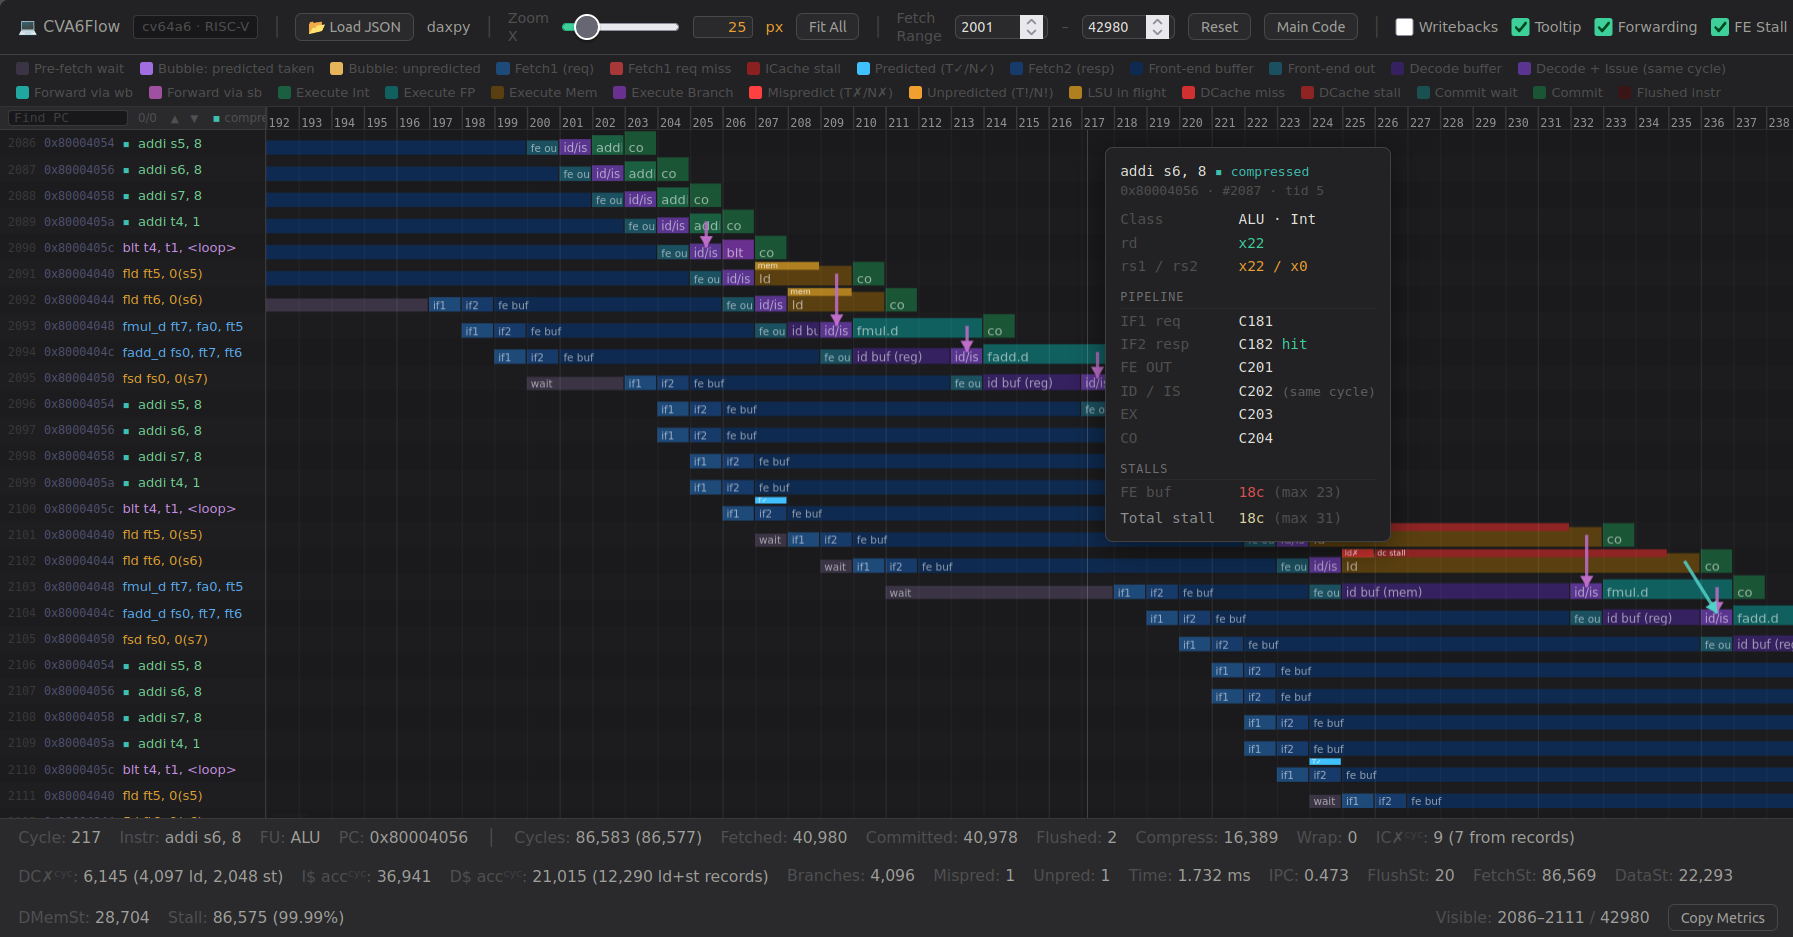
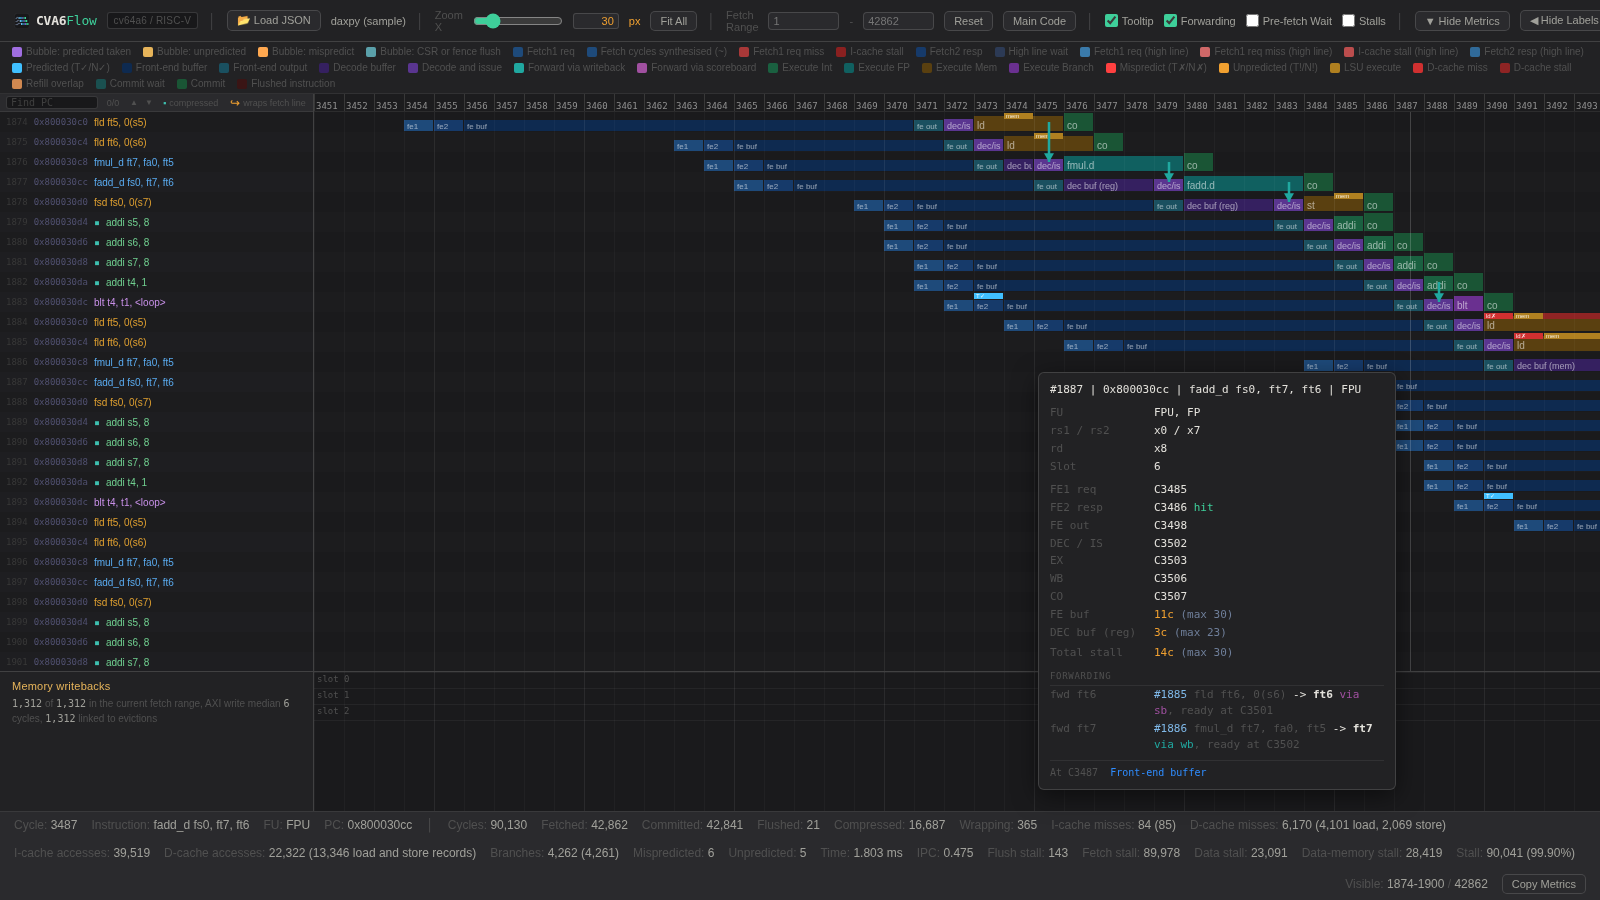
Open with a GIF tour and retake the screenshot with the new mark

Changed region(s): [[0.0, 0.0, 1.0, 0.9956]]

diff --git a/README.md b/README.md
@@ -2,7 +2,7 @@
 
 A browser-based pipeline visualiser for the CORE-V CVA6 RISC-V core. It rebuilds the pipeline cycle by cycle from a Verilator VCD of the RTL, and draws every fetched instruction as a row.
 
-![CVA6Flow rendering the CVA6 pipeline](docs/CVA6Flow_intro.png)
+![CVA6Flow loading its daxpy sample, zooming into the CVA6 pipeline, and showing forwarding and an instruction's timeline](docs/CVA6Flow_demo.gif)
 
 ## Motivation
 
